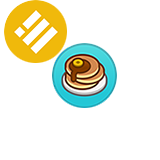
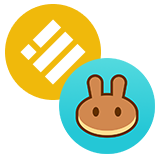
links and image updates

diff --git a/public/index.html b/public/index.html
@@ -20,10 +20,10 @@
     />
     <meta name="viewport" content="width=device-width, initial-scale=1, maximum-scale=5, minimum-scale=1" />
     <meta name="theme-color" content="#000000" />
-    <meta name="twitter:image" content="https://goosedefi.com/images/egg/hero.png" />
+    <meta name="twitter:image" content="https://app.lagoondefi.com/images/lagoon/lagoon-twitter-image.png" />
     <meta
       name="twitter:description"
-      content="The most popular AMM on BSC by user count! Earn LAGOON through yield farming or win it in the Lottery, then stake it in Nests to earn more tokens! Initial Farm Offerings (new token launch model pioneered by Goose Finance), NFTs, and more, on a platform you can trust."
+      content="The chillest AMM on BSC! Earn LAGOON through yield farming or win it in the Lottery, then stake it in Pools to earn more tokens! Initial Farm Offerings (new token launch model pioneered by Lagoon Defi), NFTs, and more, on a platform you can trust."
     />
     <meta name="twitter:card" content="summary" />
     <meta name="twitter:title" content="Lagoon Defi - A next evolution DeFi exchange on Binance Smart Chain (BSC)" />

diff --git a/src/views/Home/components/FarmStakingCard.tsx b/src/views/Home/components/FarmStakingCard.tsx
@@ -16,7 +16,7 @@ import useAllEarnings from '../../../hooks/useAllEarnings'
 import { getBalanceNumber } from '../../../utils/formatBalance'
 
 const StyledFarmStakingCard = styled(Card)`
-  // background-image: url('/images/egg/2a.png');
+  background-image: url('/images/lagoon/lagoon-card-bg-2.png');
   background-repeat: no-repeat;
   background-position: top right;
   min-height: 376px;
@@ -75,7 +75,7 @@ const FarmedStakingCard = () => {
         <Heading size="xl" mb="24px">
           {TranslateString(542, 'Farms & Staking')}
         </Heading>
-        {/* <CardImage src="/images/egg/2.png" alt="cake logo" width={64} height={64} /> */}
+        <CardImage src="/images/lagoon/lagoon-card-image.png" alt="cake logo" width={64} height={64} />
         <Block>
           <Label>{TranslateString(544, 'LAGOON to Harvest')}</Label>
           <CakeHarvestBalance earningsSum={earningsSum} />

diff --git a/src/components/Menu/config.ts b/src/components/Menu/config.ts
@@ -46,16 +46,24 @@ const config: MenuEntry[] = [
   //   href: '/nft',
   // },
   {
-    label: 'Info',
+    label: 'Charts',
     icon: 'InfoIcon',
     items: [
       {
         label: 'PancakeSwap',
-        href: 'https://pancakeswap.info/token/contact-address-replace/',
+        href: 'https://pancakeswap.info/token/0x0e09fabb73bd3ade0a17ecc321fd13a19e81ce82',
       },
       {
         label: 'PooCoin',
-        href: 'https://poocoin.app/contact-address-replace/',
+        href: 'https://poocoin.app/tokens/0x0e09fabb73bd3ade0a17ecc321fd13a19e81ce82',
+      },
+      {
+        label: 'DexGuru',
+        href: 'https://dex.guru/token/0x0e09fabb73bd3ade0a17ecc321fd13a19e81ce82-bsc',
+      },
+      {
+        label: 'Bogged',
+        href: 'https://charts.bogged.finance/?token=0x0E09FaBB73Bd3Ade0a17ECC321fD13a19e81cE82',
       },
     ],
   },

diff --git a/src/components/Menu/index.tsx b/src/components/Menu/index.tsx
@@ -25,7 +25,7 @@ const Menu = (props) => {
       setLang={setSelectedLanguage}
       cakePriceUsd={cakePriceUsd.toNumber()}
       links={config}
-      priceLink="https://lagoondefi.com/price-replace/"
+      priceLink="https://exchange.lagoondefi.com/"
       {...props}
     />
   )

diff --git a/src/views/Home/components/TwitterCard.tsx b/src/views/Home/components/TwitterCard.tsx
@@ -39,7 +39,7 @@ const TwitterCard = () => {
         <Timeline
           dataSource={{
             sourceType: 'profile',
-            screenName: 'GooseDefi',
+            screenName: 'LagoonDefi',
           }}
           options={{
             height: '300',
